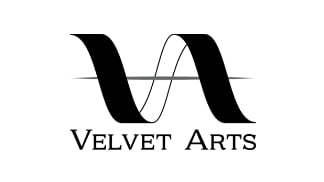
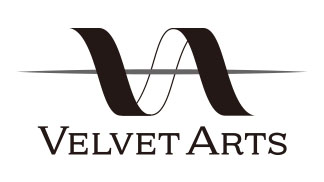
- 10/10依頼分ロゴ追加 - スケジュールページ 地方大会のリンク設置 - GA4タグ設置

Changed region(s): [[0.0617, 0.1374, 0.9568, 0.6868], [0.0926, 0.6868, 0.8951, 0.8516]]

diff --git a/schedule/index.html b/schedule/index.html
@@ -2,6 +2,15 @@
 <html>
 
   <head>
+    <!-- Google tag (gtag.js) -->
+<script async src="https://www.googletagmanager.com/gtag/js?id=G-JPEZM61KTB"></script>
+<script>
+  window.dataLayer = window.dataLayer || [];
+  function gtag(){dataLayer.push(arguments);}
+  gtag('js', new Date());
+
+  gtag('config', 'G-JPEZM61KTB');
+</script>
     <title>開催スケジュール｜第23回トラウトキング選手権大会</title>
     <meta charset="UTF-8">
     <meta http-equiv="X-UA-Compatible" content="IE=edge">
@@ -302,7 +311,7 @@
             <h3 class="regional__hdg c-hdg--lv4"><span class="regional__hdg__ja c-hdg__ja">地方予選大会の詳細およびエントリーについては、主催・共催各社にお問い合わせをお願いいたします。</span></h3>
             <ul class="regional__list">
               <li class="regional__list__itm">
-                <h4 class="regional__list__itm__hdg">平谷湖チャンピオンシップスペシャルトーナメント</h4>
+                <h4 class="regional__list__itm__hdg"><a href="https://ameblo.jp/hirayakobakucho/entry-12820877673.html" target="_blank" style="text-decoration:underline;">平谷湖チャンピオンシップスペシャルトーナメント</a></h4>
                 <div class="regional__list__itm__logo"><img class="regional__list__itm__logo__img" src="/assets/images/schedule/img-regional-list-hirayako_champion_ship-01.jpg" alt="" loading="lazy">
                 </div>
                 <div class="regional__list__itm__tbl">
@@ -338,7 +347,7 @@
                 </div>
               </li>
               <li class="regional__list__itm">
-                <h4 class="regional__list__itm__hdg">F.P.B.CUP in 五頭フィッシングパーク</h4>
+                <h4 class="regional__list__itm__hdg"><a href="https://ameblo.jp/fp-berrys2006/entry-12821856416.html" target="_blank" style="text-decoration:underline;">F.P.B.CUP in 五頭フィッシングパーク</a></h4>
                 <div class="regional__list__itm__logo"><img class="regional__list__itm__logo__img" src="/assets/images/schedule/img-regional-list-fpb_cup_gozu-01.jpg" alt="" loading="lazy">
                 </div>
                 <div class="regional__list__itm__tbl">
@@ -374,7 +383,7 @@
                 </div>
               </li>
               <li class="regional__list__itm">
-                <h4 class="regional__list__itm__hdg">ベルベットアーツ×バリバスCUP in 醒井養鱒場</h4>
+                <h4 class="regional__list__itm__hdg"><a href="http://samegai.siga.jp/?p=11934" target="_blank" style="text-decoration:underline;">ベルベットアーツ×バリバスCUP in 醒井養鱒場</a></h4>
                 <div class="regional__list__itm__logo"><img class="regional__list__itm__logo__img" src="/assets/images/schedule/img-regional-list-vlvet_arts_varivas_samegai-01.jpg" alt="" loading="lazy">
                 </div>
                 <div class="regional__list__itm__tbl">
@@ -410,7 +419,7 @@
                 </div>
               </li>
               <li class="regional__list__itm">
-                <h4 class="regional__list__itm__hdg">サウリブカップIN平谷湖フィッシングスポット</h4>
+                <h4 class="regional__list__itm__hdg"><a href="https://ameblo.jp/hirayakobakucho/entry-12820877673.html" target="_blank" style="text-decoration:underline;">サウリブカップIN平谷湖フィッシングスポット</a></h4>
                 <div class="regional__list__itm__logo"><img class="regional__list__itm__logo__img" src="/assets/images/schedule/img-regional-list-sauribu_hirayako-01.jpg" alt="" loading="lazy">
                 </div>
                 <div class="regional__list__itm__tbl">
@@ -518,7 +527,7 @@
                 </div>
               </li>
               <li class="regional__list__itm">
-                <h4 class="regional__list__itm__hdg">ヤリエCUP in ハーブの里FA</h4>
+                <h4 class="regional__list__itm__hdg"><a href="http://www.etanba.co.jp/yariecup202311.html" target="_blank" style="text-decoration:underline;">ヤリエCUP in ハーブの里FA</a></h4>
                 <div class="regional__list__itm__logo"><img class="regional__list__itm__logo__img" src="/assets/images/schedule/img-regional-list-yarie_cup_harb_fa-01.jpg" alt="" loading="lazy">
                 </div>
                 <div class="regional__list__itm__tbl">
@@ -662,7 +671,7 @@
                 </div>
               </li>
               <li class="regional__list__itm">
-                <h4 class="regional__list__itm__hdg">ゴッドハンズCUP in 高萩ふれあいの里FA</h4>
+                <h4 class="regional__list__itm__hdg"><a href="https://docs.google.com/forms/d/e/1FAIpQLScKOtyCcByjm1wJVFLqUlnu0VFQ2ceiW-YEYkCNo9CnVL8uhA/viewform?pli=1" target="_blank" style="text-decoration:underline;">ゴッドハンズCUP in 高萩ふれあいの里FA</a></h4>
                 <div class="regional__list__itm__logo"><img class="regional__list__itm__logo__img" src="/assets/images/schedule/img-regional-list-god_hands_cup_takahagi-01.jpg" alt="" loading="lazy">
                 </div>
                 <div class="regional__list__itm__tbl">
@@ -734,7 +743,7 @@
                 </div>
               </li>
               <li class="regional__list__itm">
-                <h4 class="regional__list__itm__hdg">ムカイカップ ＩＮ 【ベリーパークinフィッシュオン！王禅寺】</h4>
+                <h4 class="regional__list__itm__hdg"><a href="https://www.mukai-fishing.jp/archives/2405.html" target="_blank" style="text-decoration:underline;">ムカイカップ ＩＮ 【ベリーパークinフィッシュオン！王禅寺】</a></h4>
                 <div class="regional__list__itm__logo"><img class="regional__list__itm__logo__img" src="/assets/images/schedule/img-regional-list-mukai_berrypark-01.jpg" alt="" loading="lazy">
                 </div>
                 <div class="regional__list__itm__tbl">

diff --git a/index.html b/index.html
@@ -2,6 +2,15 @@
 <html>
 
   <head>
+    <!-- Google tag (gtag.js) -->
+<script async src="https://www.googletagmanager.com/gtag/js?id=G-JPEZM61KTB"></script>
+<script>
+  window.dataLayer = window.dataLayer || [];
+  function gtag(){dataLayer.push(arguments);}
+  gtag('js', new Date());
+
+  gtag('config', 'G-JPEZM61KTB');
+</script>
     <title>第23回トラウトキング選手権大会</title>
     <meta charset="UTF-8">
     <meta http-equiv="X-UA-Compatible" content="IE=edge">
@@ -284,6 +293,10 @@
                     <li class="sponsors__officials__itm__list__itm--i_jet_link"><a class="sponsors__officials__itm__list__itm__anchor" href="https://ijetlink.jp/" target="_blank" rel="noopener noreferrer"><img class="sponsors__officials__itm__list__itm__anchor__img" src="/assets/images/front_page/sponsors/img-list-i_jet_link-01.jpg" alt="i Jet Link Your desire as your achivement" loading="lazy"></a>
                     </li>
                     <li class="sponsors__officials__itm__list__itm--ivyline"><a class="sponsors__officials__itm__list__itm__anchor" href="https://www.ivyline.jp/" target="_blank" rel="noopener noreferrer"><img class="sponsors__officials__itm__list__itm__anchor__img" src="/assets/images/front_page/sponsors/img-list-ivyline-01.jpg" alt="IVYLINE" loading="lazy"></a>
+                    </li>
+                    <li class="sponsors__officials__itm__list__itm--ivyline"><a class="sponsors__officials__itm__list__itm__anchor" href="https://ulcus2020.com/" target="_blank" rel="noopener noreferrer"><img class="sponsors__officials__itm__list__itm__anchor__img" src="/assets/images/front_page/sponsors/img-list-ulcus-01.jpg" alt="ULCUS" loading="lazy"></a>
+                    </li>
+                    <li class="sponsors__officials__itm__list__itm--ivyline"><a class="sponsors__officials__itm__list__itm__anchor" href="https://www.bux.jp/" target="_blank" rel="noopener noreferrer"><img class="sponsors__officials__itm__list__itm__anchor__img" src="/assets/images/front_page/sponsors/img-list-anglers-01.jpg" alt="アングラーズシステム" loading="lazy"></a>
                     </li>
                     <li class="sponsors__officials__itm__list__itm--undead_factory"><a class="sponsors__officials__itm__list__itm__anchor" href="https://undeadfactory.jp/" target="_blank" rel="noopener noreferrer"><img class="sponsors__officials__itm__list__itm__anchor__img" src="/assets/images/front_page/sponsors/img-list-undead_factory-01.jpg" alt="UNDEAD FACTORY" loading="lazy"></a>
                     </li>

diff --git a/news/20230922/index.html b/news/20230922/index.html
@@ -2,7 +2,16 @@
 <html>
 
   <head>
-    <title>第23回トラウトキング選手権大会</title>
+    <!-- Google tag (gtag.js) -->
+<script async src="https://www.googletagmanager.com/gtag/js?id=G-JPEZM61KTB"></script>
+<script>
+  window.dataLayer = window.dataLayer || [];
+  function gtag(){dataLayer.push(arguments);}
+  gtag('js', new Date());
+
+  gtag('config', 'G-JPEZM61KTB');
+</script>
+    <title>事業譲受に関するお知らせ | 第23回トラウトキング選手権大会</title>
     <meta charset="UTF-8">
     <meta http-equiv="X-UA-Compatible" content="IE=edge">
     <meta name="viewport" content="width=device-width,initial-scale=1.0,minimum-scale=1.0">

diff --git a/about/index.html b/about/index.html
@@ -2,6 +2,15 @@
 <html>
 
   <head>
+    <!-- Google tag (gtag.js) -->
+<script async src="https://www.googletagmanager.com/gtag/js?id=G-JPEZM61KTB"></script>
+<script>
+  window.dataLayer = window.dataLayer || [];
+  function gtag(){dataLayer.push(arguments);}
+  gtag('js', new Date());
+
+  gtag('config', 'G-JPEZM61KTB');
+</script>
     <title>トラウトキングとは｜第23回トラウトキング選手権大会</title>
     <meta charset="UTF-8">
     <meta http-equiv="X-UA-Compatible" content="IE=edge">

diff --git a/result/index.html b/result/index.html
@@ -2,6 +2,15 @@
 <html>
 
   <head>
+    <!-- Google tag (gtag.js) -->
+<script async src="https://www.googletagmanager.com/gtag/js?id=G-JPEZM61KTB"></script>
+<script>
+  window.dataLayer = window.dataLayer || [];
+  function gtag(){dataLayer.push(arguments);}
+  gtag('js', new Date());
+
+  gtag('config', 'G-JPEZM61KTB');
+</script>
     <title>大会結果一覧｜第23回トラウトキング選手権大会</title>
     <meta charset="UTF-8">
     <meta http-equiv="X-UA-Compatible" content="IE=edge">

diff --git a/entry/index.html b/entry/index.html
@@ -2,6 +2,15 @@
 <html>
 
   <head>
+    <!-- Google tag (gtag.js) -->
+<script async src="https://www.googletagmanager.com/gtag/js?id=G-JPEZM61KTB"></script>
+<script>
+  window.dataLayer = window.dataLayer || [];
+  function gtag(){dataLayer.push(arguments);}
+  gtag('js', new Date());
+
+  gtag('config', 'G-JPEZM61KTB');
+</script>
     <title>エントリー｜第23回トラウトキング選手権大会</title>
     <meta charset="UTF-8">
     <meta http-equiv="X-UA-Compatible" content="IE=edge">

diff --git a/news/index.html b/news/index.html
@@ -2,6 +2,15 @@
 <html>
 
   <head>
+    <!-- Google tag (gtag.js) -->
+<script async src="https://www.googletagmanager.com/gtag/js?id=G-JPEZM61KTB"></script>
+<script>
+  window.dataLayer = window.dataLayer || [];
+  function gtag(){dataLayer.push(arguments);}
+  gtag('js', new Date());
+
+  gtag('config', 'G-JPEZM61KTB');
+</script>
     <title>お知らせ｜第23回トラウトキング選手権大会</title>
     <meta charset="UTF-8">
     <meta http-equiv="X-UA-Compatible" content="IE=edge">
